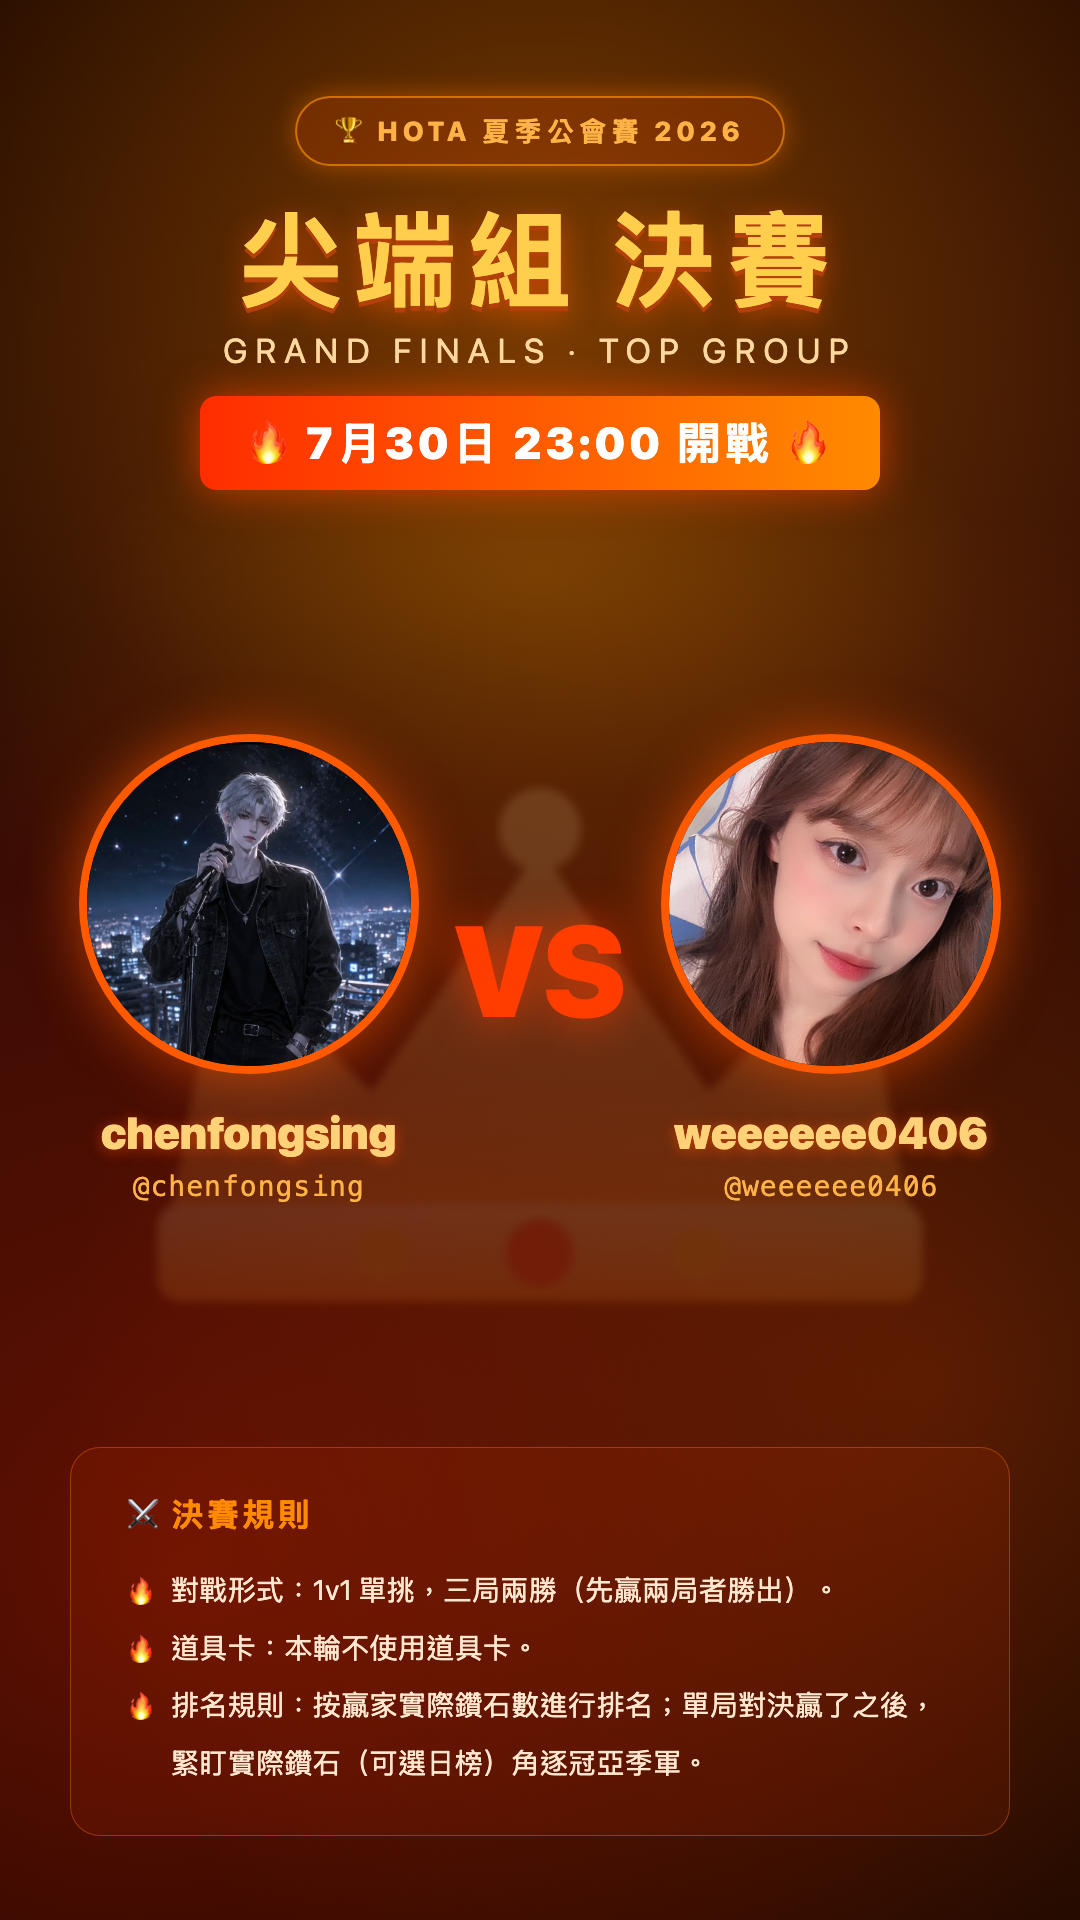
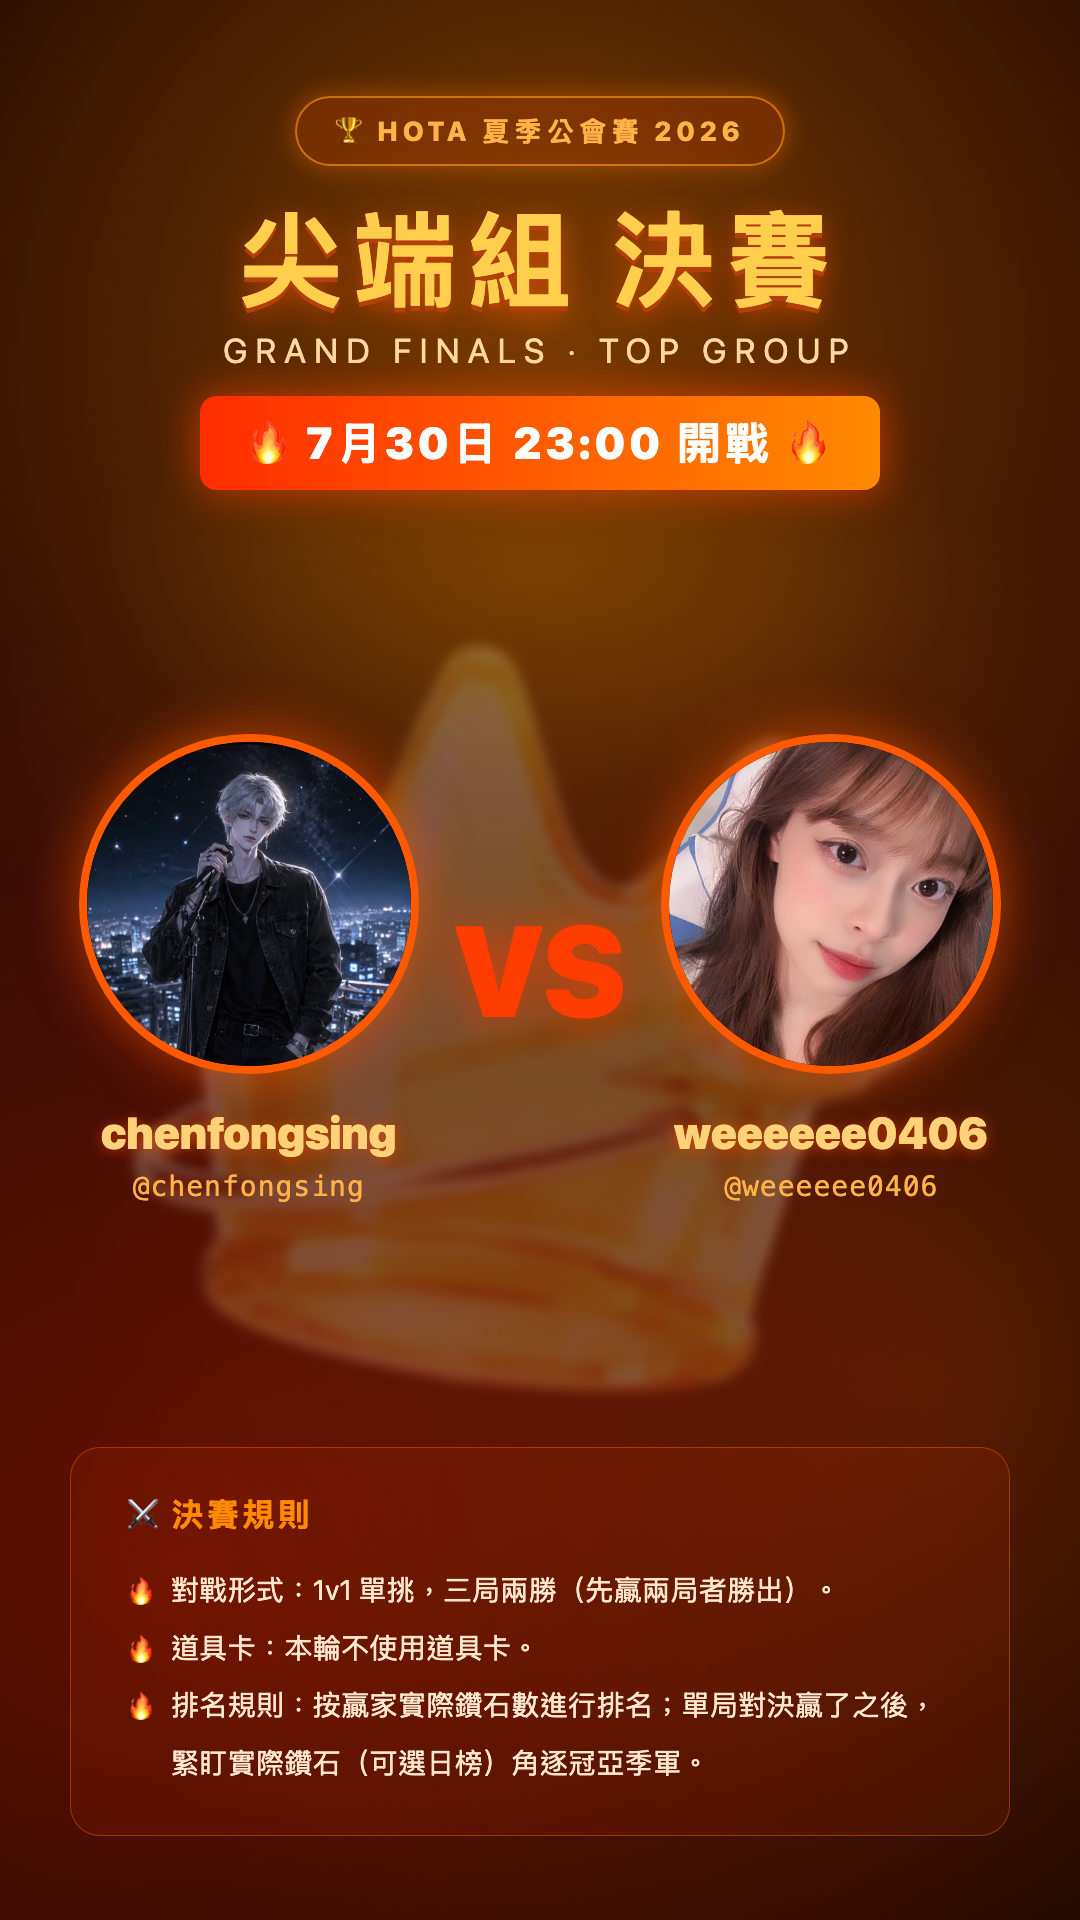
決賽海報背景改用 3D 金色皇冠圖片，優化氛圍

Changed region(s): [[0.2139, 0.3125, 0.8556, 0.75], [0.1222, 0.5312, 0.2444, 0.6562]]

diff --git a/final_poster.html b/final_poster.html
@@ -24,10 +24,12 @@ body {
 .crown {
   position:absolute; top:52%; left:50%;
   transform:translate(-50%,-50%);
-  width:900px; opacity:.14; filter:blur(5px);
+  width:950px;
+  opacity:.24; filter:blur(6px) brightness(1.15);
   z-index:1; pointer-events:none;
+  mix-blend-mode: screen;
 }
-.crown svg { width:100%; display:block; }
+.crown img { width:100%; display:block; }
 .wrap {
   position:relative; z-index:3;
   height:100%; display:flex; flex-direction:column;
@@ -94,24 +96,7 @@ h1 {
 </head>
 <body>
 <div class="glow"></div>
-<div class="crown">
-  <svg viewBox="0 0 240 170" xmlns="http://www.w3.org/2000/svg">
-    <defs>
-      <linearGradient id="g" x1="0" y1="0" x2="0" y2="1">
-        <stop offset="0" stop-color="#ffe9a8"/>
-        <stop offset="1" stop-color="#ff9d2e"/>
-      </linearGradient>
-    </defs>
-    <path d="M20 150 L35 70 L75 110 L120 45 L165 110 L205 70 L220 150 Z" fill="url(#g)"/>
-    <rect x="18" y="140" width="204" height="26" rx="6" fill="url(#g)"/>
-    <circle cx="120" cy="153" r="9" fill="#ff4d2e"/>
-    <circle cx="78" cy="153" r="7" fill="#ffd23f"/>
-    <circle cx="162" cy="153" r="7" fill="#ffd23f"/>
-    <circle cx="35" cy="66" r="10" fill="#ffe9a8"/>
-    <circle cx="120" cy="40" r="11" fill="#ffe9a8"/>
-    <circle cx="205" cy="66" r="10" fill="#ffe9a8"/>
-  </svg>
-</div>
+<div class="crown"><img src="assets/crown.png" alt="crown"></div>
 <div class="wrap">
   <div class="top">
     <div class="badge">🏆 HOTA 夏季公會賽 2026</div>
